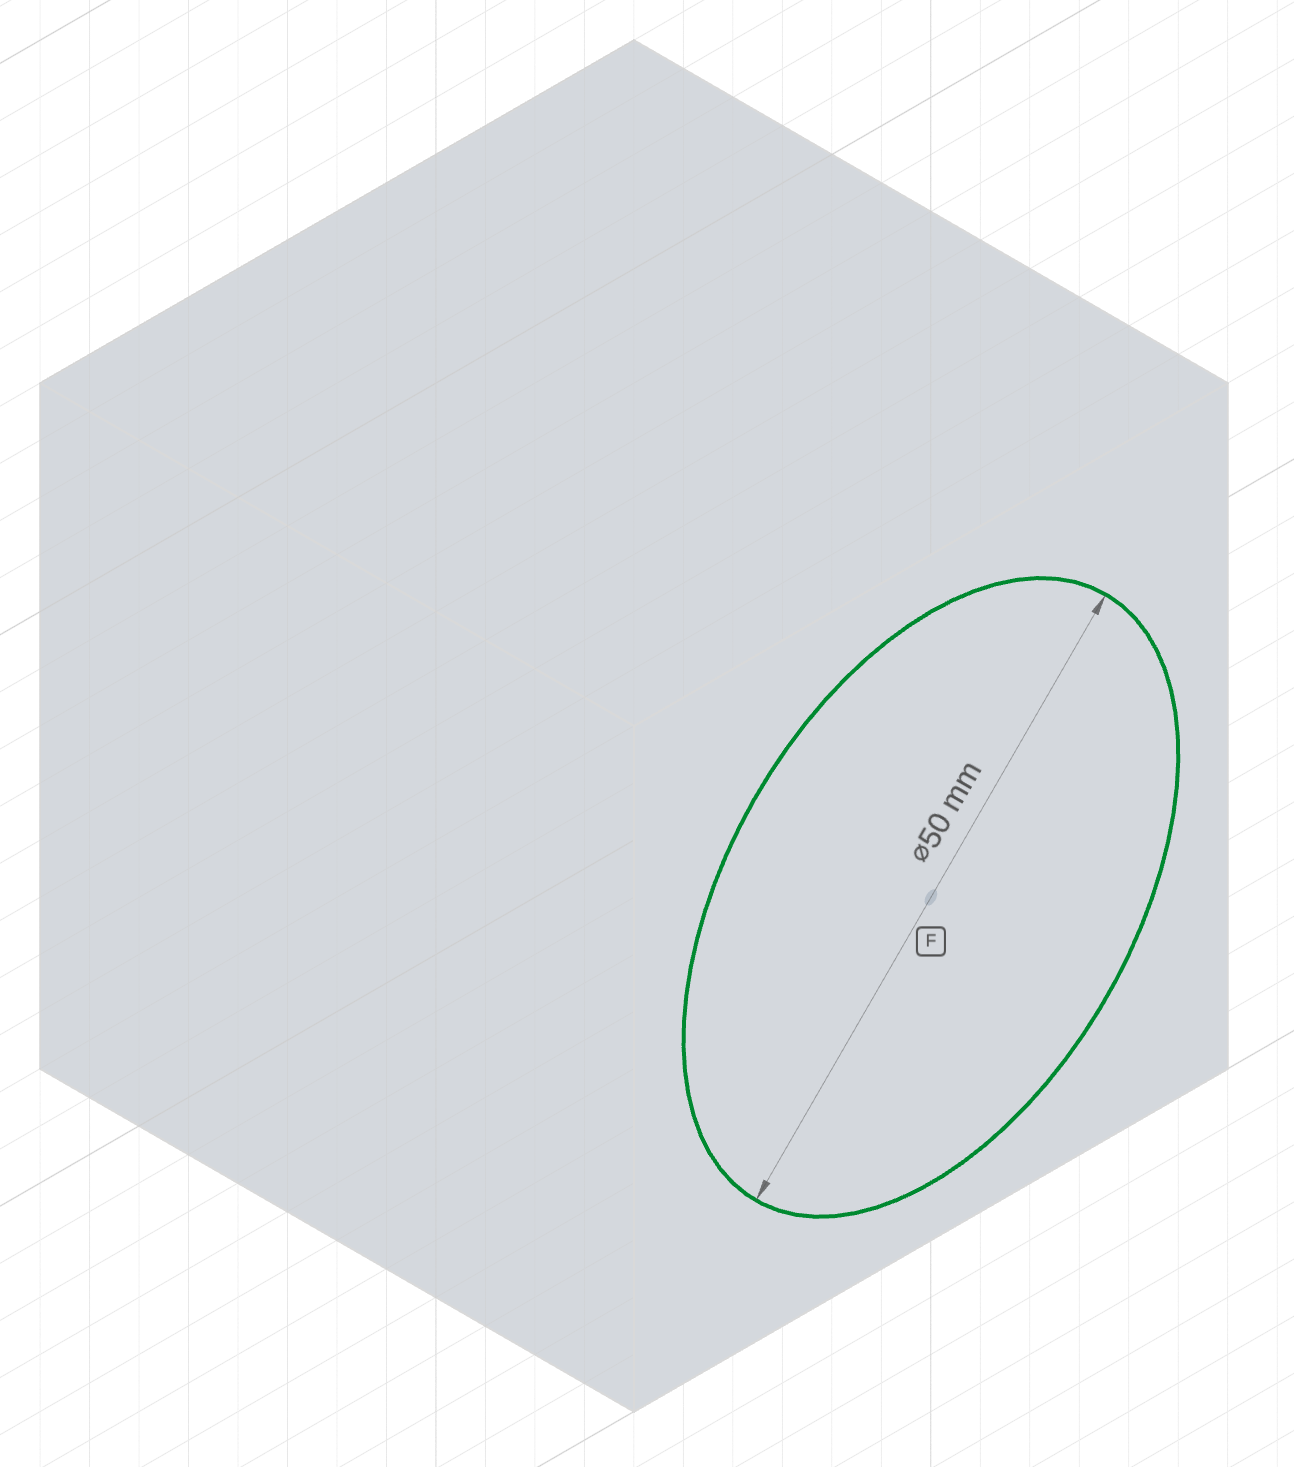
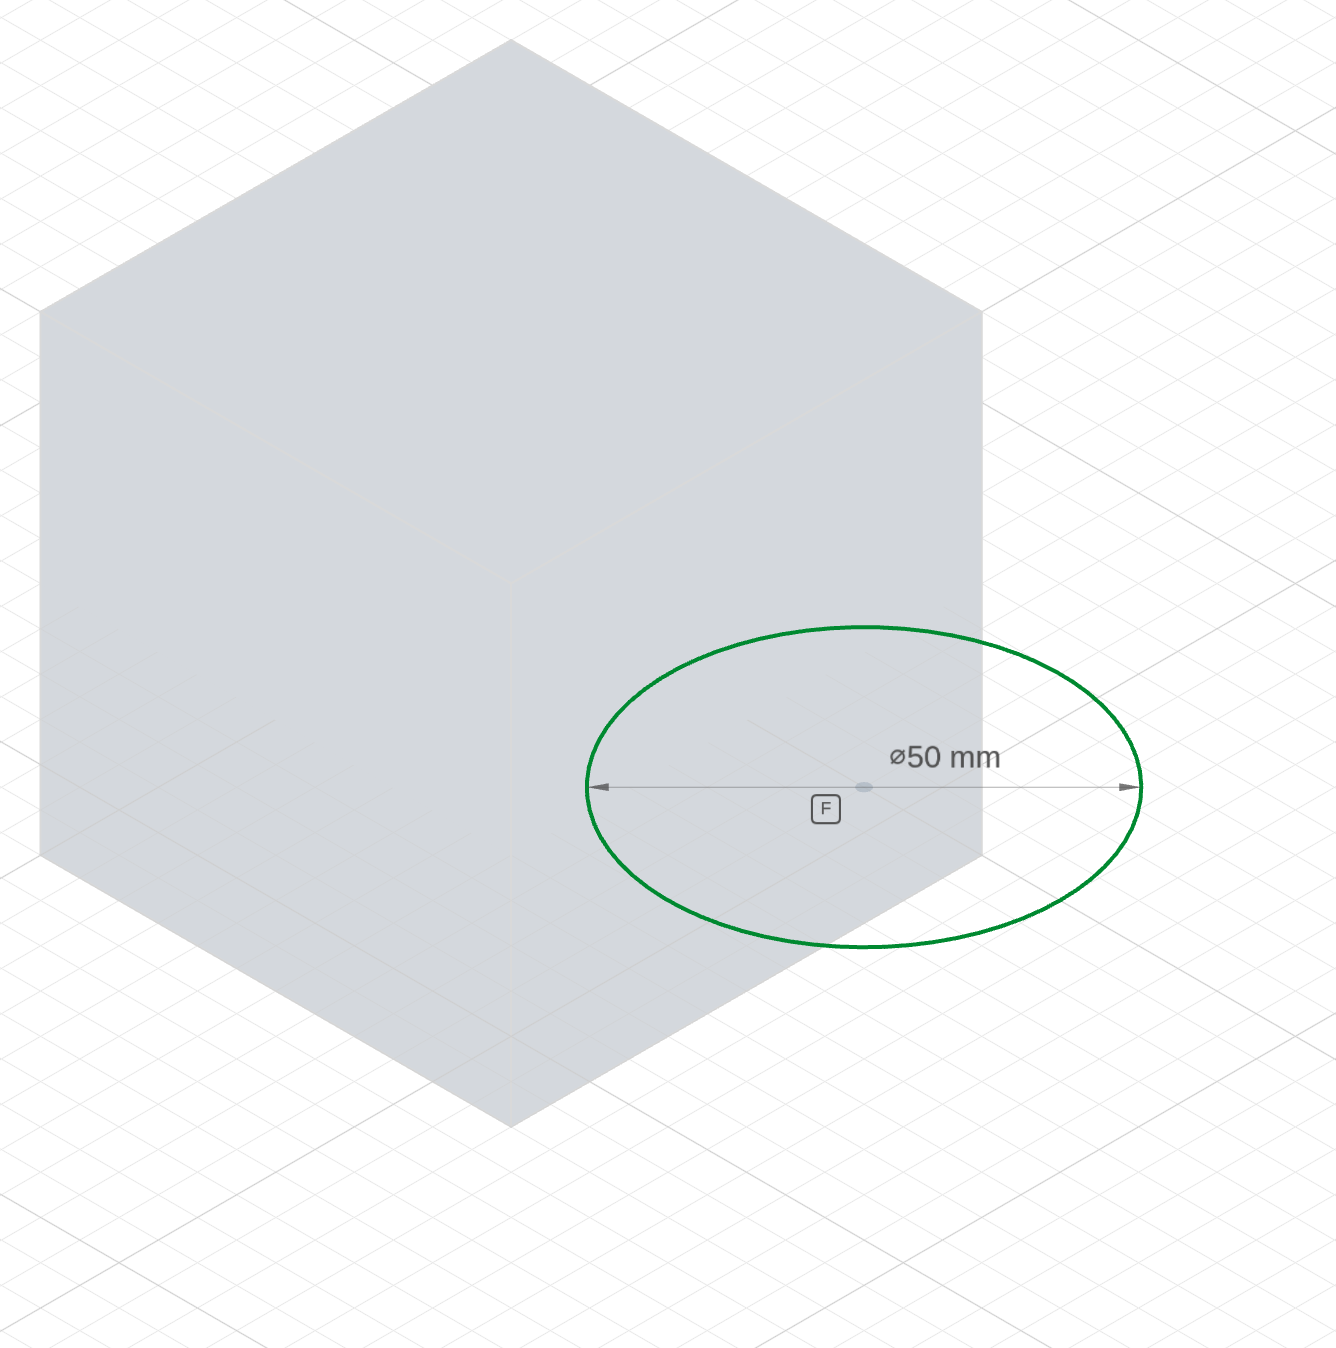
docs(3d-operations): extrude Add/New/Remove is a cube and a cylinder side by side on the ground running into each other (symmetric from a mid plane so Remove can enter), loft leads with a four-section vase and builds it up two/three/four sections; fix export named views rolling in sketch mode (camer

diff --git a/ui/tests/screenshot-view.test.ts b/ui/tests/screenshot-view.test.ts
@@ -1,9 +1,10 @@
 import { describe, it, expect } from 'vitest';
-import { Vector3 } from 'three';
+import { Object3D, PerspectiveCamera, Vector3 } from 'three';
 import {
   NAMED_VIEW_DIRECTIONS,
   eyeTargetForNamedView,
   eyeTargetForOrbit,
+  orientCameraForView,
   resolveView,
   type NamedView,
 } from '../src/screenshot-view';
@@ -140,5 +141,55 @@ describe('resolveView', () => {
       target,
     );
     expect(result!.target).toEqual(new Vector3(1, 2, 3));
+  });
+});
+
+describe('orientCameraForView', () => {
+  const zUp = new Vector3(0, 0, 1);
+
+  it('ignores the sketch-mode up vector so a named view is not rolled', () => {
+    const savedUp = Object3D.DEFAULT_UP.clone();
+    Object3D.DEFAULT_UP.copy(zUp);
+    try {
+      const { eye, target } = eyeTargetForNamedView('iso-ftr', new Vector3(0, 0, 30), 200);
+
+      const reference = new PerspectiveCamera();
+      reference.up.copy(zUp);
+      reference.position.copy(eye);
+      reference.lookAt(target);
+
+      // Sketch mode on an XY plane points camera.up along the plane's Y axis.
+      const sketchMode = new PerspectiveCamera();
+      sketchMode.up.set(0, 1, 0);
+      orientCameraForView(sketchMode, eye, target);
+
+      expect(sketchMode.quaternion.angleTo(reference.quaternion)).toBeCloseTo(0, 9);
+      expect(sketchMode.position.distanceTo(eye)).toBeCloseTo(0, 9);
+      // The camera's right vector stays level: no component along world up.
+      const right = new Vector3(1, 0, 0).applyQuaternion(sketchMode.quaternion);
+      expect(Math.abs(right.dot(zUp))).toBeLessThan(1e-9);
+    } finally {
+      Object3D.DEFAULT_UP.copy(savedUp);
+    }
+  });
+
+  it('frames top and bottom views with world +Y up instead of an arbitrary roll', () => {
+    const savedUp = Object3D.DEFAULT_UP.clone();
+    Object3D.DEFAULT_UP.copy(zUp);
+    try {
+      for (const name of ['top', 'bottom'] as NamedView[]) {
+        const { eye, target } = eyeTargetForNamedView(name, new Vector3(5, -3, 0), 100);
+        const camera = new PerspectiveCamera();
+        // Whatever the live camera was doing (here: an XZ sketch's up).
+        camera.up.set(0, 0, 1);
+        orientCameraForView(camera, eye, target);
+        const up = new Vector3(0, 1, 0).applyQuaternion(camera.quaternion);
+        expect(up.distanceTo(new Vector3(0, 1, 0))).toBeCloseTo(0, 9);
+        const right = new Vector3(1, 0, 0).applyQuaternion(camera.quaternion);
+        expect(right.distanceTo(new Vector3(name === 'top' ? 1 : -1, 0, 0))).toBeCloseTo(0, 9);
+      }
+    } finally {
+      Object3D.DEFAULT_UP.copy(savedUp);
+    }
   });
 });

diff --git a/ui/src/screenshot-view.ts b/ui/src/screenshot-view.ts
@@ -1,4 +1,4 @@
-import { Box3, MathUtils, Object3D, Vector3 } from 'three';
+import { Box3, Camera, MathUtils, Object3D, Vector3 } from 'three';
 
 // View types — mirrored from server/src/ws-protocol.ts. We don't import from
 // that file because the UI is built with its own tsconfig and shouldn't pull
@@ -165,4 +165,36 @@ function expandBounds(box: Box3, object: Object3D): void {
   for (const child of object.children) {
     expandBounds(box, child);
   }
+}
+
+/**
+ * Point `camera` at `target` from `eye` for an export view. Every resolved
+ * view (named, orbit, look-from) is defined against world up, but sketch mode
+ * points `camera.up` along the sketch plane's Y axis and `lookAt` rolls the
+ * frame around whatever `up` is — the ground grid came out vertical and every
+ * sketch looked drawn on the wrong plane. Callers restore the saved `up`
+ * afterwards so the interactive sketch camera is untouched.
+ */
+export function orientCameraForView(camera: Camera, eye: Vector3, target: Vector3): void {
+  camera.up.copy(exportUpFor(eye.clone().sub(target)));
+  camera.position.copy(eye);
+  camera.lookAt(target);
+}
+
+/**
+ * The up vector an export view is framed against: world up, except when the
+ * viewing direction is parallel to it (top and bottom views), where lookAt
+ * has no roll to work from and three.js would pick one by nudging the axis.
+ * Those views take world +Y as up — X to the right, Y up the page, the way a
+ * drawing's plan view reads and the way the XY sketch camera already frames
+ * it.
+ */
+export function exportUpFor(viewDirection: Vector3): Vector3 {
+  const worldUp = Object3D.DEFAULT_UP;
+  const parallel = viewDirection.clone().normalize().cross(worldUp).lengthSq() < 1e-9;
+  return parallel ? planUp(worldUp) : worldUp.clone();
+}
+
+function planUp(worldUp: Vector3): Vector3 {
+  return Math.abs(worldUp.z) > 0.5 ? new Vector3(0, 1, 0) : new Vector3(0, 0, 1);
 }

diff --git a/ui/src/screenshot.ts b/ui/src/screenshot.ts
@@ -8,7 +8,7 @@ import {
   WebGLRenderer,
 } from 'three';
 import { FIT_PADDING, SceneContext } from './scene/scene-context';
-import { resolveView, type ScreenshotView } from './screenshot-view';
+import { orientCameraForView, resolveView, type ScreenshotView } from './screenshot-view';
 import { findGeometryRoot } from './scene/scene-geometry-bounds';
 import { runFrameHooks } from './meshes/frame-hooks';
 import { withSketchConstraintVisibility } from './meshes/containers/sketch-constraint-visibility';
@@ -170,6 +170,7 @@ function renderToCanvas(sceneCtx: SceneContext, options: ScreenshotOptions): HTM
   cc.getPosition(savedCamPos);
   cc.getTarget(savedCamTarget);
   const savedZoom = camera.zoom;
+  const savedUp = camera.up.clone();
 
   // --- Apply export settings ---
   if (gridObj) { gridObj.visible = showGrid; }
@@ -201,8 +202,7 @@ function renderToCanvas(sceneCtx: SceneContext, options: ScreenshotOptions): HTM
   if (view.kind !== 'current') {
     const target = resolveView(view, resolved.center, resolved.diameter, savedCamPos, savedCamTarget);
     if (target) {
-      camera.position.copy(target.eye);
-      camera.lookAt(target.target);
+      orientCameraForView(camera, target.eye, target.target);
 
       if (cam.isOrthographicCamera && resolved.diameter > 0) {
         const frustumW = cam.right - cam.left;
@@ -317,6 +317,7 @@ function renderToCanvas(sceneCtx: SceneContext, options: ScreenshotOptions): HTM
     cam.aspect = savedCameraState.aspect;
   }
   camera.zoom = savedZoom;
+  camera.up.copy(savedUp);
   camera.position.copy(savedCamPos);
   camera.lookAt(savedCamTarget);
   cam.updateProjectionMatrix();

diff --git a/website/docs/3d-operations/_examples/extrude-scope-add.js b/website/docs/3d-operations/_examples/extrude-scope-add.js
@@ -2,7 +2,7 @@
 import { sketch, plane, extrude, circle, line } from 'fluidcad/core';
 import { coincident, diameter, distance, fix, horizontal, vertical } from "fluidcad/constraints";
 
-// The base part every column shares: a 60 mm cube.
+// The base part every column shares: a 60 mm cube standing on the ground plane.
 sketch("xy", () => {
     const sg1 = line([-30, -30], [30, -30]);
     const sg2 = line([30, -30], [30, 30]);
@@ -22,15 +22,18 @@ sketch("xy", () => {
   })
 extrude(60)
 
-// The feature profile: a Ø50 circle on the cube's right-hand face. The face
-// normal points away from the cube, so an extrusion grows out sideways and a
-// cut bores straight in.
-sketch(plane("yz", { offset: 30 }), () => {
-    const c = circle([0, 30], 50);
-    fix(c.center(), [0, 30]);
+// The feature profile: a Ø50 circle on a plane halfway up the cube, centred
+// 45 to the right so it overlaps the cube's right-hand side by 10. Extruding
+// symmetrically from this plane grows 30 up and 30 down — the same height as
+// the cube — so the cylinder stands on the ground beside the cube and runs
+// into it.
+sketch(plane("xy", { offset: 30 }), () => {
+    const c = circle([45, 0], 50);
+    fix(c.center(), [45, 0]);
     diameter(c, 50);
   })
 
-// Add tab: a Ø50 boss 40 long, fused with the cube — one solid.
+// Add tab, Symmetric direction: a Ø50 cylinder the height of the cube, fused
+// with it — one solid, no seam where they meet.
 // highlight-next-line
-extrude(40);
+extrude(60).symmetric();

diff --git a/website/docs/3d-operations/_examples/extrude-scope-new.js b/website/docs/3d-operations/_examples/extrude-scope-new.js
@@ -2,7 +2,7 @@
 import { sketch, plane, extrude, circle, line } from 'fluidcad/core';
 import { coincident, diameter, distance, fix, horizontal, vertical } from "fluidcad/constraints";
 
-// The base part every column shares: a 60 mm cube.
+// The base part every column shares: a 60 mm cube standing on the ground plane.
 sketch("xy", () => {
     const sg1 = line([-30, -30], [30, -30]);
     const sg2 = line([30, -30], [30, 30]);
@@ -22,15 +22,17 @@ sketch("xy", () => {
   })
 extrude(60)
 
-// The feature profile: a Ø50 circle on the cube's right-hand face. The face
-// normal points away from the cube, so an extrusion grows out sideways and a
-// cut bores straight in.
-sketch(plane("yz", { offset: 30 }), () => {
-    const c = circle([0, 30], 50);
-    fix(c.center(), [0, 30]);
+// The feature profile: a Ø50 circle on a plane halfway up the cube, centred
+// 45 to the right so it overlaps the cube's right-hand side by 10. Extruding
+// symmetrically from this plane grows 30 up and 30 down — the same height as
+// the cube — so the cylinder stands on the ground beside the cube and runs
+// into it.
+sketch(plane("xy", { offset: 30 }), () => {
+    const c = circle([45, 0], 50);
+    fix(c.center(), [45, 0]);
     diameter(c, 50);
   })
 
-// New tab: the same rod, kept as a body of its own.
+// New tab: the same cylinder, kept as a body of its own that overlaps the cube.
 // highlight-next-line
-extrude(40).new();
+extrude(60).symmetric().new();

diff --git a/website/docs/3d-operations/_examples/extrude-scope-remove.js b/website/docs/3d-operations/_examples/extrude-scope-remove.js
@@ -2,7 +2,7 @@
 import { sketch, plane, extrude, cut, circle, line } from 'fluidcad/core';
 import { coincident, diameter, distance, fix, horizontal, vertical } from "fluidcad/constraints";
 
-// The base part every column shares: a 60 mm cube.
+// The base part every column shares: a 60 mm cube standing on the ground plane.
 sketch("xy", () => {
     const sg1 = line([-30, -30], [30, -30]);
     const sg2 = line([30, -30], [30, 30]);
@@ -22,15 +22,17 @@ sketch("xy", () => {
   })
 extrude(60)
 
-// The feature profile: a Ø50 circle on the cube's right-hand face. The face
-// normal points away from the cube, so an extrusion grows out sideways and a
-// cut bores straight in.
-sketch(plane("yz", { offset: 30 }), () => {
-    const c = circle([0, 30], 50);
-    fix(c.center(), [0, 30]);
+// The feature profile: a Ø50 circle on a plane halfway up the cube, centred
+// 45 to the right so it overlaps the cube's right-hand side by 10. Extruding
+// symmetrically from this plane grows 30 up and 30 down — the same height as
+// the cube — so the cylinder stands on the ground beside the cube and runs
+// into it.
+sketch(plane("xy", { offset: 30 }), () => {
+    const c = circle([45, 0], 50);
+    fix(c.center(), [45, 0]);
     diameter(c, 50);
   })
 
-// Remove tab: the rod's volume is bored out of the cube instead.
+// Remove tab: the cylinder's volume is carved out of the cube instead.
 // highlight-next-line
-cut(40);
+cut(60).symmetric();

diff --git a/website/docs/3d-operations/_examples/extrude-scope-before.js b/website/docs/3d-operations/_examples/extrude-scope-before.js
@@ -2,7 +2,7 @@
 import { sketch, plane, extrude, circle, line } from 'fluidcad/core';
 import { coincident, diameter, distance, fix, horizontal, vertical } from "fluidcad/constraints";
 
-// The base part every column shares: a 60 mm cube.
+// The base part every column shares: a 60 mm cube standing on the ground plane.
 sketch("xy", () => {
     const sg1 = line([-30, -30], [30, -30]);
     const sg2 = line([30, -30], [30, 30]);
@@ -22,11 +22,13 @@ sketch("xy", () => {
   })
 extrude(60)
 
-// The feature profile: a Ø50 circle on the cube's right-hand face. The face
-// normal points away from the cube, so an extrusion grows out sideways and a
-// cut bores straight in.
-sketch(plane("yz", { offset: 30 }), () => {
-    const c = circle([0, 30], 50);
-    fix(c.center(), [0, 30]);
+// The feature profile: a Ø50 circle on a plane halfway up the cube, centred
+// 45 to the right so it overlaps the cube's right-hand side by 10. Extruding
+// symmetrically from this plane grows 30 up and 30 down — the same height as
+// the cube — so the cylinder stands on the ground beside the cube and runs
+// into it.
+sketch(plane("xy", { offset: 30 }), () => {
+    const c = circle([45, 0], 50);
+    fix(c.center(), [45, 0]);
     diameter(c, 50);
   })

diff --git a/website/docs/3d-operations/_examples/loft-three-sections.js b/website/docs/3d-operations/_examples/loft-three-sections.js
@@ -1,10 +1,8 @@
 // @screenshot view iso-ftr
-import { sketch, plane, circle } from 'fluidcad/core';
+import { sketch, plane, loft, circle } from 'fluidcad/core';
 import { diameter, fix } from "fluidcad/constraints";
 
-// Nothing solid yet — four round sections on planes 40 apart, each fully constrained. Only the
-// diameter changes from one to the next: a Ø60 foot, a Ø100 belly, a Ø44 neck
-// and a Ø70 lip.
+// The foot and lip again, with the Ø100 belly between them.
 const foot = sketch("xy", () => {
     const c = circle([0, 0], 60);
     fix(c.center(), [0, 0]);
@@ -17,14 +15,13 @@ const belly = sketch(plane("xy", { offset: 40 }), () => {
     diameter(c, 100);
   })
 
-const neck = sketch(plane("xy", { offset: 80 }), () => {
-    const c = circle([0, 0], 44);
-    fix(c.center(), [0, 0]);
-    diameter(c, 44);
-  })
-
 const lip = sketch(plane("xy", { offset: 120 }), () => {
     const c = circle([0, 0], 70);
     fix(c.center(), [0, 0]);
     diameter(c, 70);
   })
+
+// Three sections: the surface now has to pass through the belly on its way
+// up, so the tube swells out in the middle.
+// highlight-next-line
+loft(foot, belly, lip);

diff --git a/website/docs/3d-operations/_examples/loft-vase.js b/website/docs/3d-operations/_examples/loft-vase.js
@@ -1,8 +1,8 @@
 // @screenshot view iso-ftr
-import { sketch, plane, circle } from 'fluidcad/core';
+import { sketch, plane, loft, circle } from 'fluidcad/core';
 import { diameter, fix } from "fluidcad/constraints";
 
-// Nothing solid yet — four round sections on planes 40 apart, each fully constrained. Only the
+// Four round sections on planes 40 apart, each fully constrained. Only the
 // diameter changes from one to the next: a Ø60 foot, a Ø100 belly, a Ø44 neck
 // and a Ø70 lip.
 const foot = sketch("xy", () => {
@@ -28,3 +28,8 @@ const lip = sketch(plane("xy", { offset: 120 }), () => {
     fix(c.center(), [0, 0]);
     diameter(c, 70);
   })
+
+// The surface passes through the four sections in the order they are listed,
+// swelling out to the belly, pinching in at the neck and flaring at the lip.
+// highlight-next-line
+loft(foot, belly, neck, lip);

diff --git a/website/docs/3d-operations/_examples/loft-two-sections.js b/website/docs/3d-operations/_examples/loft-two-sections.js
@@ -1,0 +1,21 @@
+// @screenshot view iso-ftr
+import { sketch, plane, loft, circle } from 'fluidcad/core';
+import { diameter, fix } from "fluidcad/constraints";
+
+// Only the vase's foot and lip, 120 apart.
+const foot = sketch("xy", () => {
+    const c = circle([0, 0], 60);
+    fix(c.center(), [0, 0]);
+    diameter(c, 60);
+  })
+
+const lip = sketch(plane("xy", { offset: 120 }), () => {
+    const c = circle([0, 0], 70);
+    fix(c.center(), [0, 0]);
+    diameter(c, 70);
+  })
+
+// Two sections: the surface runs straight from one to the other — a tube
+// that tapers gently from Ø60 to Ø70.
+// highlight-next-line
+loft(foot, lip);
